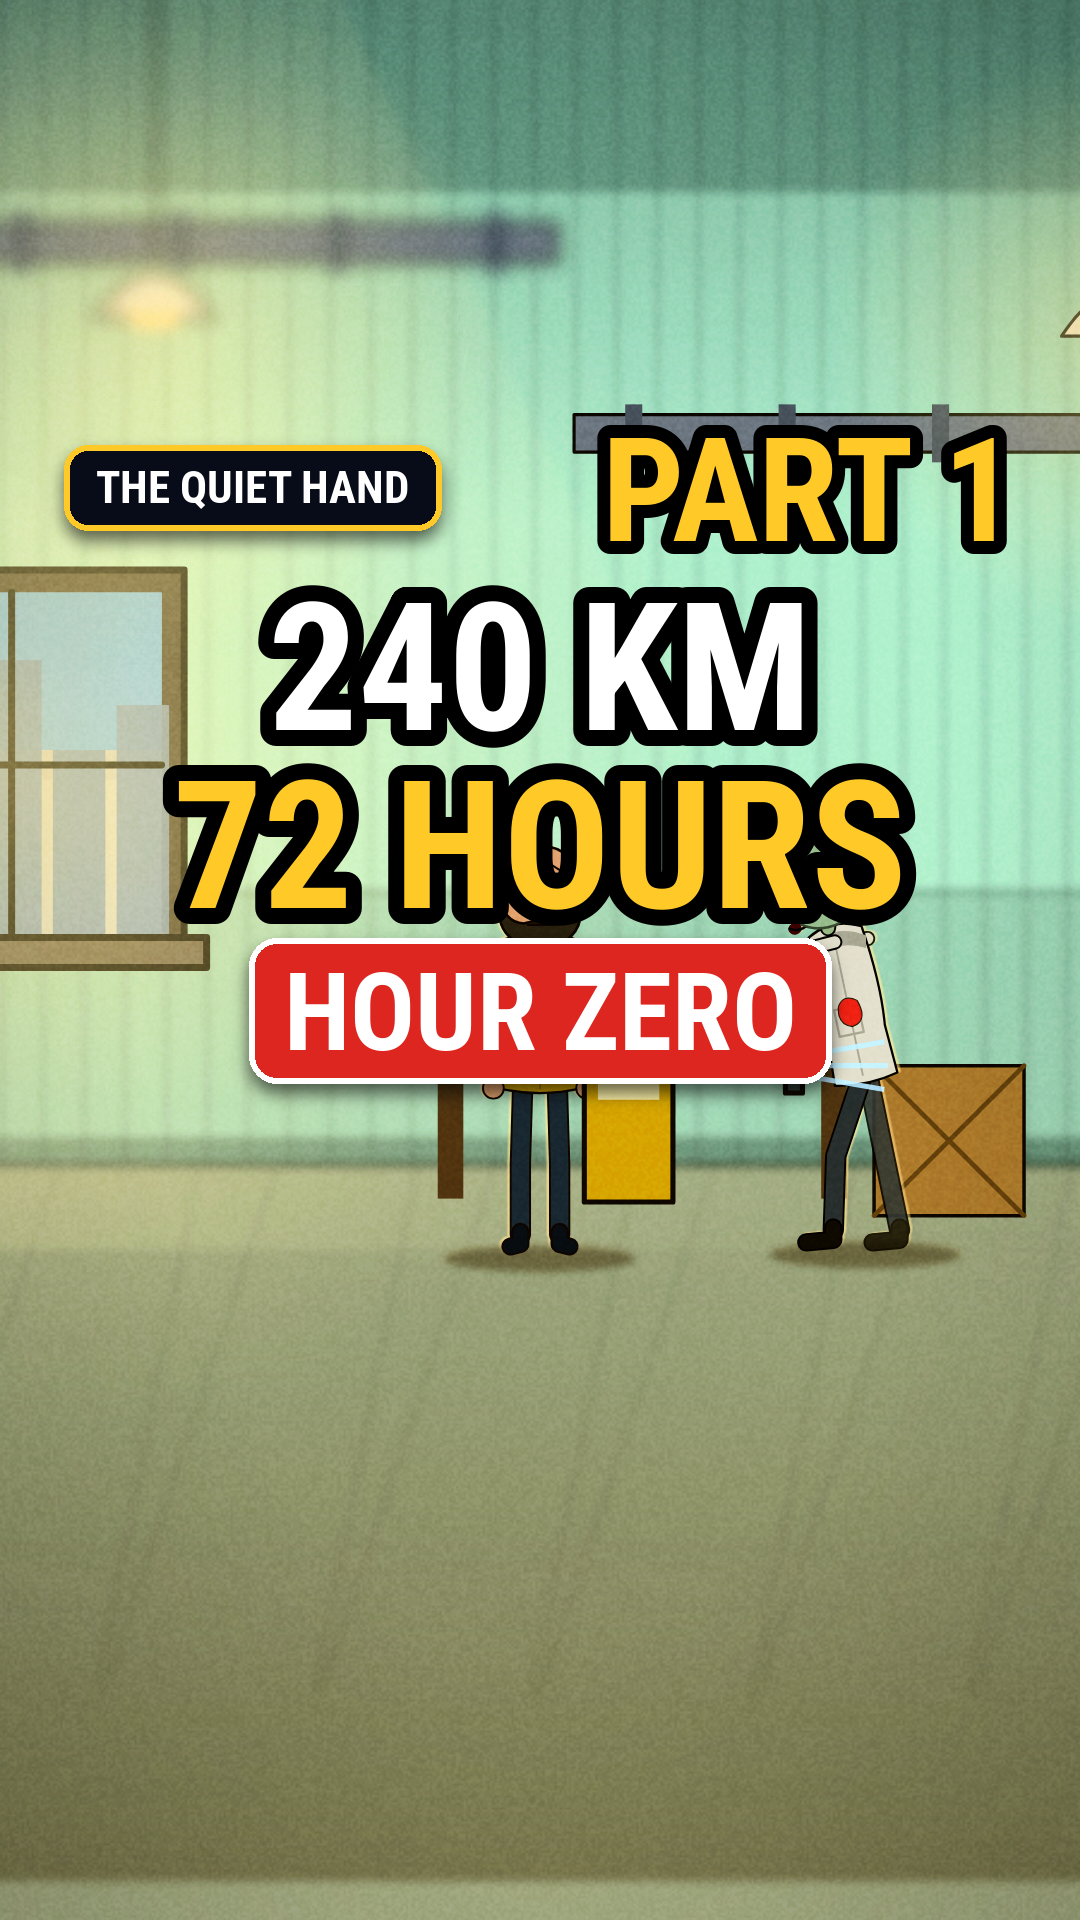
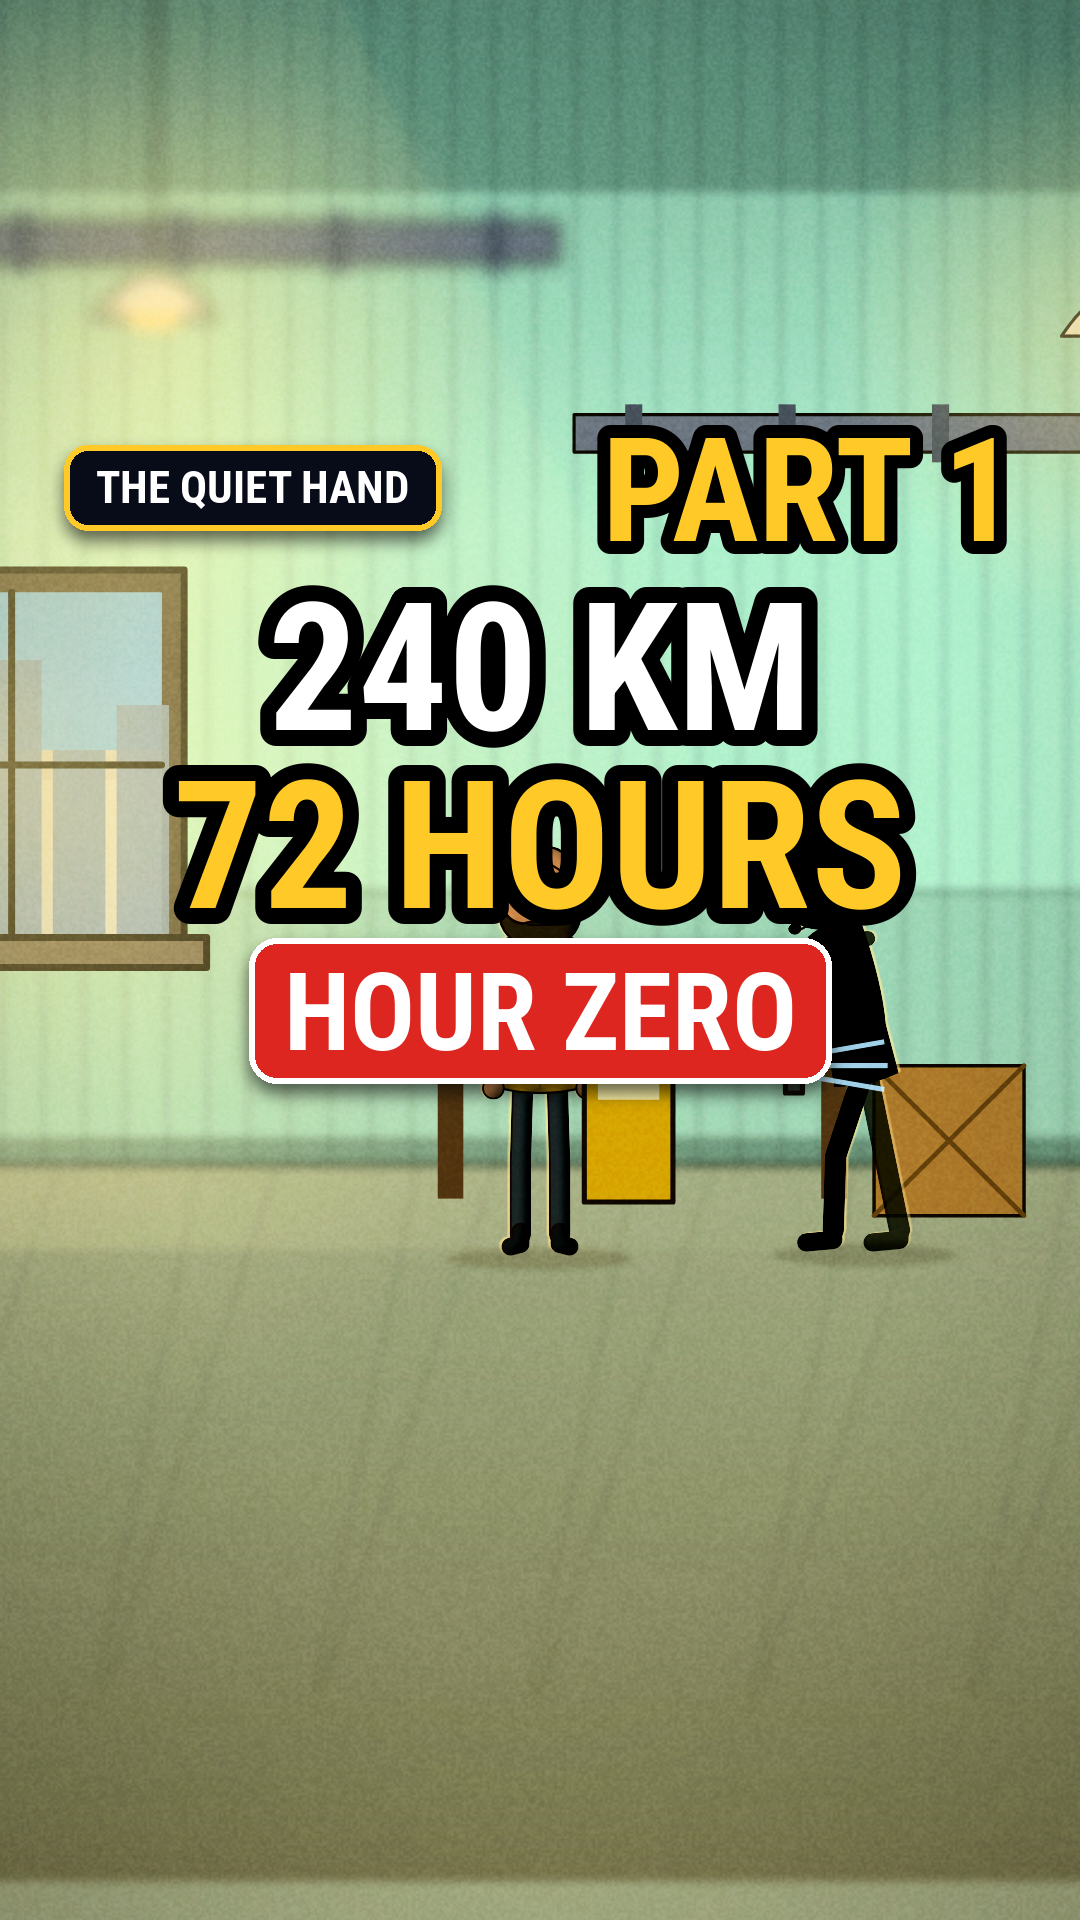
Ep1: volume shading on characters (SVG diffuse lighting), tree/bush depth on street

Changed region(s): [[0.7028, 0.4688, 0.8861, 0.6875], [0.4278, 0.5625, 0.5806, 0.6875]]

diff --git a/studio/long/pax9.js b/studio/long/pax9.js
@@ -153,7 +153,7 @@ function woundDeco(g,T,P,v){const a=v==='side'?T.n.a:T.la;const [e,h]=[a[1],a[2]
 const _actor16=actor;
 actor=function(g,o){
  if(!PAXH[o.k])return _actor16(g,o);
- const who=o.k,view=o.view||'front';const root=G(g,{});if(o.shadow)E('ellipse',{cx:0,cy:6,rx:78,ry:11,fill:'#1a0d05',opacity:.42,style:'filter:blur(3px)'},root);if(o.rim)root.style.filter=`drop-shadow(-2px -1px 0 ${o.rim})`;const base={x:o.x||0,y:o.y||0,s:o.s||1,fl:o.flip?-1:1,sx:o.sx||1};
+ const who=o.k,view=o.view||'front';const root=G(g,{});if(o.shadow)E('ellipse',{cx:0,cy:6,rx:78,ry:11,fill:'#1a0d05',opacity:.42,style:'filter:blur(3px)'},root);if(o.rim)root.style.filter=(window.SPEC&&SPEC.world&&SPEC.world.shade?'url(#fShade) ':'')+`drop-shadow(-2px -1px 0 ${o.rim})`;const base={x:o.x||0,y:o.y||0,s:o.s||1,fl:o.flip?-1:1,sx:o.sx||1};
  const dec=(gg,T,P,v)=>{if(DECO[who])DECO[who](gg,T,P,v,o);if(o.wound)woundDeco(gg,T,P,v);if(o.stain)P_(gg,v==='side'?'M-6,-200 q10,-8 16,2 q4,14 -8,18 q-14,-2 -8,-20Z':'M-6,-210 q14,-10 24,2 q6,18 -10,26 q-20,-4 -14,-28Z','#d9302a',{'stroke-width':1.4,opacity:.95});if(o.sling)slingDeco(gg,v);if(o.sleeveUp&&v==='front'){const a=o.sleeveUp==='R'?T.ra:T.la;tube(gg,[a[1],a[2]],15,P.skin,P.ink);C(gg,a[2][0],a[2][1],8.5,P.skin,{stroke:P.ink,'stroke-width':2.5})}};
  const mk=pose=>keeper(root,{who,view,pose,expr:o.expr,mood:o.mood,x:.01,y:.01,s:1,pack:o.pack,col:o.col,mouth:0,tilt:o.tilt,noShadow:true,deco:dec,sweat:o.sweat,red:o.red,pale:o.pale,look:o.look,blush:o.blush,bare:o.bare,tear:o.tear});
  const anim=o.anim||'none';const pp=ANIMPOSE[anim];

diff --git a/studio/long/chars16.js b/studio/long/chars16.js
@@ -2,6 +2,12 @@
    Coach Dex (guru), Steve (NPC zombie), Maya (his daughter), Respawn (dog, dog16.js), horde silhouettes */
 let _uid2=0;const uid2=p=>p+(++_uid2);
 function defsLong(){document.getElementById('defs').insertAdjacentHTML('beforeend',`
+ <filter id="fShade" x="-20%" y="-10%" width="140%" height="120%" color-interpolation-filters="sRGB">
+  <feGaussianBlur in="SourceAlpha" stdDeviation="5" result="b"/>
+  <feDiffuseLighting in="b" surfaceScale="6" diffuseConstant="1.05" lighting-color="#fff2d8" result="lit"><feDistantLight azimuth="215" elevation="58"/></feDiffuseLighting>
+  <feComposite in="SourceGraphic" in2="lit" operator="arithmetic" k1="1.0" k2="0" k3="0" k4="0" result="shaded"/>
+  <feComposite in="shaded" in2="SourceAlpha" operator="in"/>
+ </filter>
  <linearGradient id="gLens" x1="0" y1="0" x2="0" y2="1"><stop offset="0" stop-color="#4f8fcf"/><stop offset=".55" stop-color="#173a63"/><stop offset="1" stop-color="#0a1a30"/></linearGradient>
  <linearGradient id="gSkyDay" x1="0" y1="0" x2="0" y2="1"><stop offset="0" stop-color="#58b6ff"/><stop offset="1" stop-color="#bfe8ff"/></linearGradient>
  <linearGradient id="gSkyReal" x1="0" y1="0" x2="0" y2="1"><stop offset="0" stop-color="#6d7f8f"/><stop offset="1" stop-color="#c9c4b4"/></linearGradient>

diff --git a/studio/departments/BACKLOG.md b/studio/departments/BACKLOG.md
@@ -1,12 +1,12 @@
 # Studio backlog (generated by improve.py, do not edit by hand)
 
-Updated 2026-10-30 13:11 UTC from 4 reviewed clips. Work from the top; fix the CAUSE in the toolchain, then re-review.
+Updated 2026-10-30 13:21 UTC from 4 reviewed clips. Work from the top; fix the CAUSE in the toolchain, then re-review.
 
 | # | dept | seen in | issue |
 |---:|---|---:|---|
 | 1 | art | 2 | LAYOUT: 4 person(s) cut by the frame edge, e.g. [(18, 'z_hoodie', 441), (19, 'z_hoodie', 547), (23, 'ren', 5), (23, 'z_porter', 478)]: reframe or move them inside x 40-410 |
 | 2 | editorial | 3 | EDITORIAL: 5 caption(s) on screen < 0.6 s [('IF YOU HEAR', 0.51), ('TWO.', 0.58), ('THREE.', 0.56)] |
-| 3 | art | 2 | ART: two locations have almost the same colour world (distance 10 < 14): give each place its own colour key |
+| 3 | art | 2 | ART: two locations have almost the same colour world (distance 12 < 14): give each place its own colour key |
 | 4 | direction | 2 | DIRECTION: more than 3 shots of the same size in a row (beats [9, 18, 19, 20, 21]): vary wide / medium / close |
 | 5 | direction | 2 | DIRECTION: the same picture (place + size) holds for 10.4 s (> 6.5 s): cut, move the camera or change the subject |
 | 6 | qc | 2 | QC: total bitrate 4.7 Mbps (3-14) |

diff --git a/studio/departments/scorecards/quiet_01.md b/studio/departments/scorecards/quiet_01.md
@@ -1,4 +1,4 @@
-# Scorecard quiet_01  (2026-10-30 13:11 UTC)
+# Scorecard quiet_01  (2026-10-30 13:21 UTC)
 
 | department | score | bar | verdict |
 |---|---:|---:|---|
@@ -16,7 +16,7 @@
 * STORY/storylint(warn): a 2.5D lane location is used
 
 ## art
-* ART: two locations have almost the same colour world (distance 10 < 14): give each place its own colour key
+* ART: two locations have almost the same colour world (distance 12 < 14): give each place its own colour key
 * LAYOUT: 4 person(s) cut by the frame edge, e.g. [(18, 'z_hoodie', 441), (19, 'z_hoodie', 547), (23, 'ren', 5), (23, 'z_porter', 478)]: reframe or move them inside x 40-410
 
 ## sound
